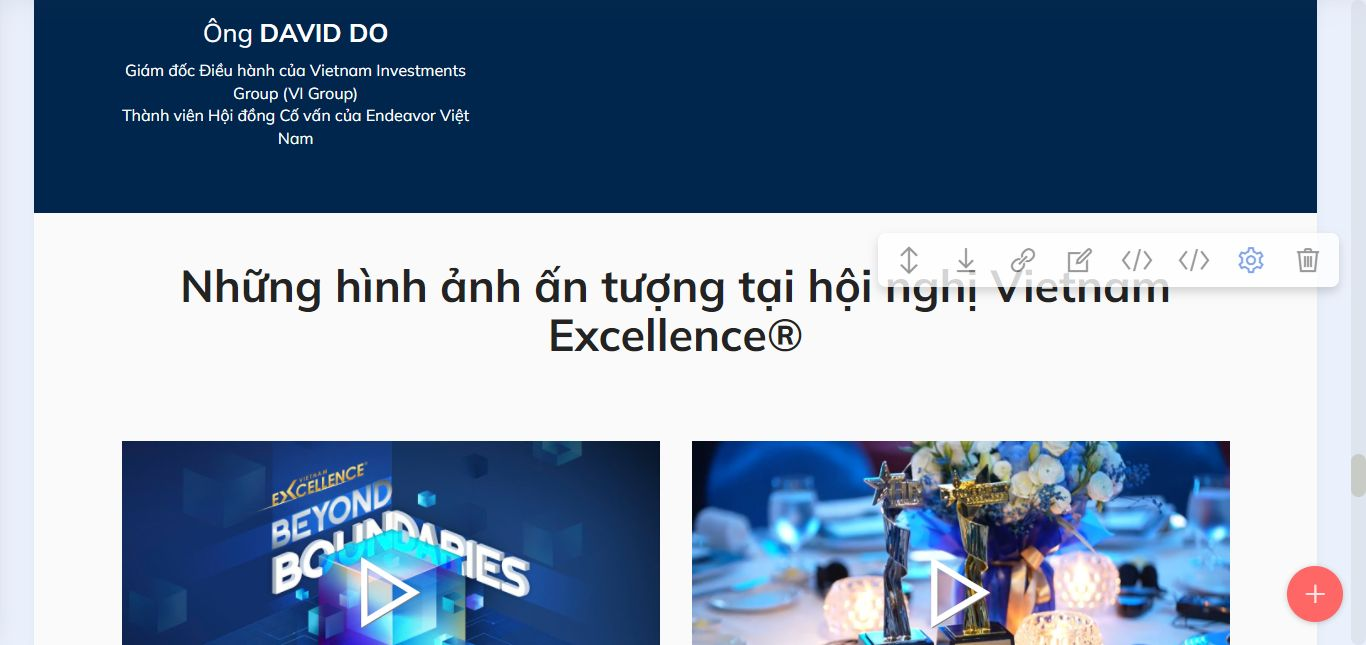
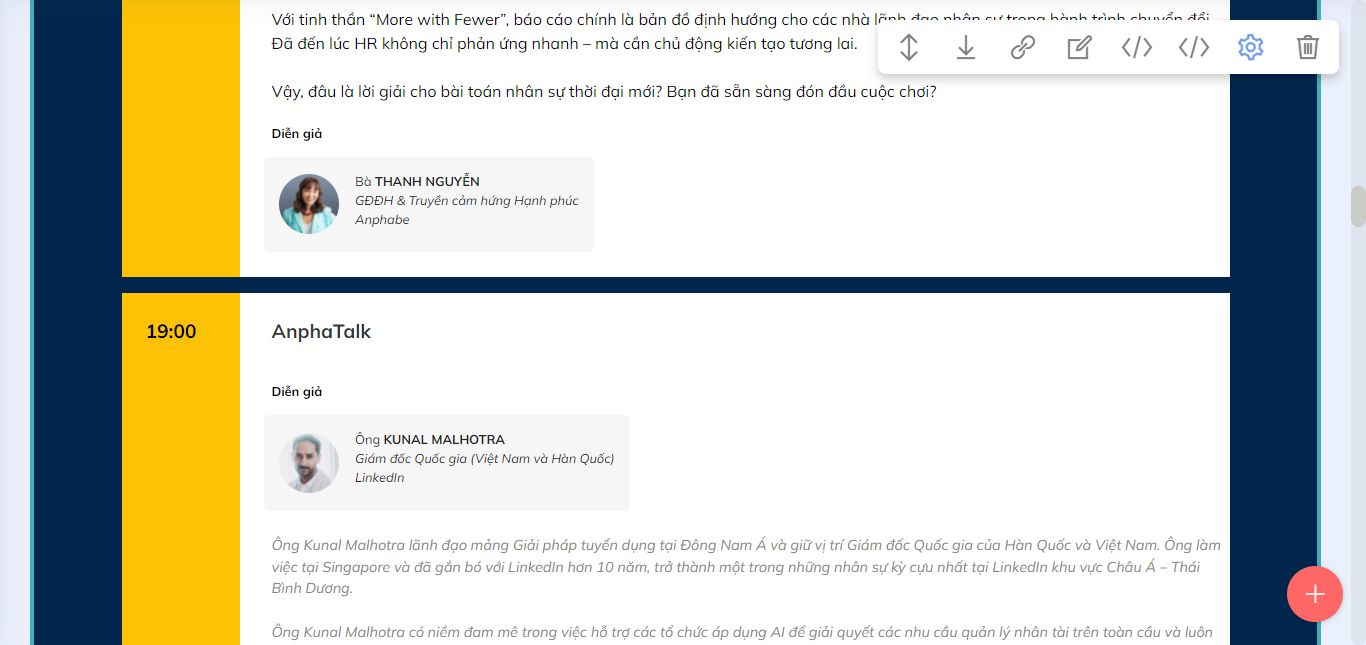
up

diff --git a/vietnamexcellence/2025/en/index.html b/vietnamexcellence/2025/en/index.html
@@ -318,7 +318,8 @@ height="0" width="0" style="display:none;visibility:hidden"></iframe></noscript>
                         <p class="mbr-black mbr-fonts-style mbr-text display-7 time-slot"><span><strong>7:00 P.M</strong></span></p>
                     </div>
                     <div class="text-box">                        
-                        <h5 class="icon-text mbr-black mbr-fonts-style display-5"><strong>AnphaTalk</strong></h5>
+                        <h5 class="icon-text mbr-black mbr-fonts-style display-5"><strong>AnphaTalk: Innovation in the age of AI</strong></h5>
+                        <p class="mbr-fonts-style mbr-text display-7">As AI rapidly transforms the way we work, innovate, and lead, organizations must reimagine how they build skills, design roles, and unlock human potential. This session explores key talent shifts, the synergy between people and technology, and actionable strategies to drive innovation and agility in the AI era.</p>
                         <div class="schedule-speakers mb-4">
                             <div class="speaker-title">
                                 <p class="mbr-text mbr-fonts-style display-7">
@@ -529,8 +530,8 @@ Cố vấn cao cấp – PNJ Group</i></h4>
         </div>
         <div class="row mbr-gallery">
             <div class="col-12 col-md-4 col-lg-4 item gallery-image active">
-                <div class="item-wrapper" data-toggle="modal" data-bs-toggle="modal" data-target="#uIvgjpbZbf-modal" data-bs-target="#uIvgjpbZbf-modal">
-                    <img class="w-100 image-speaker" src="assets/images/khuong.jpg" alt="GS.TS. NGUYỄN ĐỨC KHƯƠNG" data-slide-to="0" data-bs-slide-to="0" data-target="#lb-uIvgjpbZbf" data-bs-target="#lb-uIvgjpbZbf">
+                <div class="item-wrapper" data-toggle="modal" data-bs-toggle="modal" data-target="#uIAWS51eX5-modal" data-bs-target="#uIAWS51eX5-modal">
+                    <img class="w-100 image-speaker" src="assets/images/khuong.jpg" alt="GS.TS. NGUYỄN ĐỨC KHƯƠNG" data-slide-to="0" data-bs-slide-to="0" data-target="#lb-uIAWS51eX5" data-bs-target="#lb-uIAWS51eX5">
                     <div class="icon-wrapper">
                         <span class="mobi-mbri mobi-mbri-search mbr-iconfont mbr-iconfont-btn"></span>
                     </div>
@@ -540,8 +541,8 @@ Cố vấn cao cấp – PNJ Group</i></h4>
                     <h6 class="mbr-item-subtitle mbr-fonts-style align-center mb-4 display-7">President, Association of Vietnamese Scientists and Experts (AVSE Global)<br>Managing Director, EMLV Business School (France)<br>Director of International Development, De Vinci Higher Education (France)</h6>
                 </div>
             </div><div class="col-12 col-md-4 col-lg-4 item gallery-image">
-                <div class="item-wrapper" data-toggle="modal" data-bs-toggle="modal" data-target="#uIvgjpbZbf-modal" data-bs-target="#uIvgjpbZbf-modal">
-                    <img class="w-100 image-speaker" src="assets/images/thanhs.jpg" alt="Ông VÕ TÂN THÀNH" data-slide-to="1" data-bs-slide-to="1" data-target="#lb-uIvgjpbZbf" data-bs-target="#lb-uIvgjpbZbf">
+                <div class="item-wrapper" data-toggle="modal" data-bs-toggle="modal" data-target="#uIAWS51eX5-modal" data-bs-target="#uIAWS51eX5-modal">
+                    <img class="w-100 image-speaker" src="assets/images/thanhs.jpg" alt="Ông VÕ TÂN THÀNH" data-slide-to="1" data-bs-slide-to="1" data-target="#lb-uIAWS51eX5" data-bs-target="#lb-uIAWS51eX5">
                     <div class="icon-wrapper">
                         <span class="mobi-mbri mobi-mbri-search mbr-iconfont mbr-iconfont-btn"></span>
                     </div>
@@ -553,8 +554,8 @@ Cố vấn cao cấp – PNJ Group</i></h4>
             </div>
                         
             <div class="col-12 col-md-4 col-lg-4 item gallery-image">
-                <div class="item-wrapper" data-toggle="modal" data-bs-toggle="modal" data-target="#uIvgjpbZbf-modal" data-bs-target="#uIvgjpbZbf-modal">
-                    <img class="w-100" src="assets/images/thanh.jpg" alt="Bà THANH NGUYỄN" data-slide-to="2" data-bs-slide-to="2" data-target="#lb-uIvgjpbZbf" data-bs-target="#lb-uIvgjpbZbf">
+                <div class="item-wrapper" data-toggle="modal" data-bs-toggle="modal" data-target="#uIAWS51eX5-modal" data-bs-target="#uIAWS51eX5-modal">
+                    <img class="w-100" src="assets/images/thanh.jpg" alt="Bà THANH NGUYỄN" data-slide-to="2" data-bs-slide-to="2" data-target="#lb-uIAWS51eX5" data-bs-target="#lb-uIAWS51eX5">
                     <div class="icon-wrapper">
                         <span class="mobi-mbri mobi-mbri-search mbr-iconfont mbr-iconfont-btn"></span>
                     </div>
@@ -565,8 +566,8 @@ Cố vấn cao cấp – PNJ Group</i></h4>
                 </div>
             </div>
             <div class="col-12 col-md-4 col-lg-4 item gallery-image">
-                <div class="item-wrapper" data-toggle="modal" data-bs-toggle="modal" data-target="#uIvgjpbZbf-modal" data-bs-target="#uIvgjpbZbf-modal">
-                    <img class="w-100 image-speaker" src="assets/images/jesse.jpg" alt="Ông JESSE BOONE" data-slide-to="3" data-bs-slide-to="3" data-target="#lb-uIvgjpbZbf" data-bs-target="#lb-uIvgjpbZbf">
+                <div class="item-wrapper" data-toggle="modal" data-bs-toggle="modal" data-target="#uIAWS51eX5-modal" data-bs-target="#uIAWS51eX5-modal">
+                    <img class="w-100 image-speaker" src="assets/images/jesse.jpg" alt="Ông JESSE BOONE" data-slide-to="3" data-bs-slide-to="3" data-target="#lb-uIAWS51eX5" data-bs-target="#lb-uIAWS51eX5">
                     <div class="icon-wrapper">
                         <span class="mobi-mbri mobi-mbri-search mbr-iconfont mbr-iconfont-btn"></span>
                     </div>
@@ -577,8 +578,8 @@ Cố vấn cao cấp – PNJ Group</i></h4>
                 </div>
             </div>
             <div class="col-12 col-md-4 col-lg-4 item gallery-image">
-                <div class="item-wrapper" data-toggle="modal" data-bs-toggle="modal" data-target="#uIvgjpbZbf-modal" data-bs-target="#uIvgjpbZbf-modal">
-                    <img class="w-100" src="assets/images/winnie-1.jpg" alt="Bà WINNIE LAM" data-slide-to="4" data-bs-slide-to="4" data-target="#lb-uIvgjpbZbf" data-bs-target="#lb-uIvgjpbZbf">
+                <div class="item-wrapper" data-toggle="modal" data-bs-toggle="modal" data-target="#uIAWS51eX5-modal" data-bs-target="#uIAWS51eX5-modal">
+                    <img class="w-100" src="assets/images/winnie-1.jpg" alt="Bà WINNIE LAM" data-slide-to="4" data-bs-slide-to="4" data-target="#lb-uIAWS51eX5" data-bs-target="#lb-uIAWS51eX5">
                     <div class="icon-wrapper">
                         <span class="mobi-mbri mobi-mbri-search mbr-iconfont mbr-iconfont-btn"></span>
                     </div>
@@ -589,8 +590,8 @@ Cố vấn cao cấp – PNJ Group</i></h4>
                 </div>
             </div>
             <div class="col-12 col-md-4 col-lg-4 item gallery-image">
-                <div class="item-wrapper" data-toggle="modal" data-bs-toggle="modal" data-target="#uIvgjpbZbf-modal" data-bs-target="#uIvgjpbZbf-modal">
-                    <img class="w-100 image-speaker" src="assets/images/mike.jpg" alt="Ông MIKE HEBERT" data-slide-to="5" data-bs-slide-to="5" data-target="#lb-uIvgjpbZbf" data-bs-target="#lb-uIvgjpbZbf">
+                <div class="item-wrapper" data-toggle="modal" data-bs-toggle="modal" data-target="#uIAWS51eX5-modal" data-bs-target="#uIAWS51eX5-modal">
+                    <img class="w-100 image-speaker" src="assets/images/mike.jpg" alt="Ông MIKE HEBERT" data-slide-to="5" data-bs-slide-to="5" data-target="#lb-uIAWS51eX5" data-bs-target="#lb-uIAWS51eX5">
                     <div class="icon-wrapper">
                         <span class="mobi-mbri mobi-mbri-search mbr-iconfont mbr-iconfont-btn"></span>
                     </div>
@@ -601,8 +602,8 @@ Cố vấn cao cấp – PNJ Group</i></h4>
                 </div>
             </div>
             <div class="col-12 col-md-4 col-lg-4 item gallery-image">
-                <div class="item-wrapper" data-toggle="modal" data-bs-toggle="modal" data-target="#uIvgjpbZbf-modal" data-bs-target="#uIvgjpbZbf-modal">
-                    <img class="w-100 image-speaker" src="assets/images/david.jpg" alt="Ông DAVID DO" data-slide-to="6" data-bs-slide-to="6" data-target="#lb-uIvgjpbZbf" data-bs-target="#lb-uIvgjpbZbf">
+                <div class="item-wrapper" data-toggle="modal" data-bs-toggle="modal" data-target="#uIAWS51eX5-modal" data-bs-target="#uIAWS51eX5-modal">
+                    <img class="w-100 image-speaker" src="assets/images/david.jpg" alt="Ông DAVID DO" data-slide-to="6" data-bs-slide-to="6" data-target="#lb-uIAWS51eX5" data-bs-target="#lb-uIAWS51eX5">
                     <div class="icon-wrapper">
                         <span class="mobi-mbri mobi-mbri-search mbr-iconfont mbr-iconfont-btn"></span>
                     </div>
@@ -614,11 +615,11 @@ Cố vấn cao cấp – PNJ Group</i></h4>
             </div>
         </div>
 
-        <div class="modal mbr-slider" tabindex="-1" role="dialog" aria-hidden="true" id="uIvgjpbZbf-modal">
+        <div class="modal mbr-slider" tabindex="-1" role="dialog" aria-hidden="true" id="uIAWS51eX5-modal">
             <div class="modal-dialog" role="document">
                 <div class="modal-content">
                     <div class="modal-body">
-                        <div class="carousel slide" id="lb-uIvgjpbZbf" data-interval="5000" data-bs-interval="5000">
+                        <div class="carousel slide" id="lb-uIAWS51eX5" data-interval="5000" data-bs-interval="5000">
                             <div class="carousel-inner">
                                 <div class="carousel-item active">
                                     <div class="row">
@@ -765,22 +766,22 @@ Cố vấn cao cấp – PNJ Group</i></h4>
                             </div>
 
                             <ol class="carousel-indicators">
-                                <li data-slide-to="0" data-bs-slide-to="0" class="active" data-target="#lb-uIvgjpbZbf" data-bs-target="#lb-uIvgjpbZbf"></li>
-                                <li data-slide-to="1" data-bs-slide-to="1" data-target="#lb-uIvgjpbZbf" data-bs-target="#lb-uIvgjpbZbf"></li>
-                                <li data-slide-to="2" data-bs-slide-to="2" data-target="#lb-uIvgjpbZbf" data-bs-target="#lb-uIvgjpbZbf"></li>
-                                <li data-slide-to="3" data-bs-slide-to="3" data-target="#lb-uIvgjpbZbf" data-bs-target="#lb-uIvgjpbZbf"></li>
-                                <li data-slide-to="4" data-bs-slide-to="4" data-target="#lb-uIvgjpbZbf" data-bs-target="#lb-uIvgjpbZbf"></li>
-                                <li data-slide-to="5" data-bs-slide-to="5" data-target="#lb-uIvgjpbZbf" data-bs-target="#lb-uIvgjpbZbf"></li>
-                                <li data-slide-to="6" data-bs-slide-to="6" data-target="#lb-uIvgjpbZbf" data-bs-target="#lb-uIvgjpbZbf"></li>
+                                <li data-slide-to="0" data-bs-slide-to="0" class="active" data-target="#lb-uIAWS51eX5" data-bs-target="#lb-uIAWS51eX5"></li>
+                                <li data-slide-to="1" data-bs-slide-to="1" data-target="#lb-uIAWS51eX5" data-bs-target="#lb-uIAWS51eX5"></li>
+                                <li data-slide-to="2" data-bs-slide-to="2" data-target="#lb-uIAWS51eX5" data-bs-target="#lb-uIAWS51eX5"></li>
+                                <li data-slide-to="3" data-bs-slide-to="3" data-target="#lb-uIAWS51eX5" data-bs-target="#lb-uIAWS51eX5"></li>
+                                <li data-slide-to="4" data-bs-slide-to="4" data-target="#lb-uIAWS51eX5" data-bs-target="#lb-uIAWS51eX5"></li>
+                                <li data-slide-to="5" data-bs-slide-to="5" data-target="#lb-uIAWS51eX5" data-bs-target="#lb-uIAWS51eX5"></li>
+                                <li data-slide-to="6" data-bs-slide-to="6" data-target="#lb-uIAWS51eX5" data-bs-target="#lb-uIAWS51eX5"></li>
                                 
                             </ol>
                             <a role="button" href="" class="close" data-dismiss="modal" data-bs-dismiss="modal" aria-label="Close">
                             </a>
-                            <a class="carousel-control-prev carousel-control" role="button" data-slide="prev" data-bs-slide="prev" href="#lb-uIvgjpbZbf">
+                            <a class="carousel-control-prev carousel-control" role="button" data-slide="prev" data-bs-slide="prev" href="#lb-uIAWS51eX5">
                                 <span class="mobi-mbri mobi-mbri-arrow-prev" aria-hidden="true"></span>
                                 <span class="sr-only visually-hidden">Previous</span>
                             </a>
-                            <a class="carousel-control-next carousel-control" role="button" data-slide="next" data-bs-slide="next" href="#lb-uIvgjpbZbf">
+                            <a class="carousel-control-next carousel-control" role="button" data-slide="next" data-bs-slide="next" href="#lb-uIAWS51eX5">
                                 <span class="mobi-mbri mobi-mbri-arrow-next" aria-hidden="true"></span>
                                 <span class="sr-only visually-hidden">Next</span>
                             </a>
@@ -821,48 +822,48 @@ Cố vấn cao cấp – PNJ Group</i></h4>
         
         <div class="row mbr-gallery mt-4">
             <div class="col-12 col-md-6 col-lg-3 item gallery-image active">
-                <div class="item-wrapper" data-toggle="modal" data-bs-toggle="modal" data-target="#uIvgjqDTYh-modal" data-bs-target="#uIvgjqDTYh-modal">
-                    <img class="w-100" src="assets/images/lb-11.jpg" alt="" data-slide-to="0" data-bs-slide-to="0" data-target="#lb-uIvgjqDTYh" data-bs-target="#lb-uIvgjqDTYh">
+                <div class="item-wrapper" data-toggle="modal" data-bs-toggle="modal" data-target="#uIAWS7I94A-modal" data-bs-target="#uIAWS7I94A-modal">
+                    <img class="w-100" src="assets/images/lb-11.jpg" alt="" data-slide-to="0" data-bs-slide-to="0" data-target="#lb-uIAWS7I94A" data-bs-target="#lb-uIAWS7I94A">
                     <div class="icon-wrapper">
                         <span class="mobi-mbri mobi-mbri-search mbr-iconfont mbr-iconfont-btn"></span>
                     </div>
                 </div>
                 
             </div><div class="col-12 col-md-6 col-lg-3 item gallery-image">
-                <div class="item-wrapper" data-toggle="modal" data-bs-toggle="modal" data-target="#uIvgjqDTYh-modal" data-bs-target="#uIvgjqDTYh-modal">
-                    <img class="w-100" src="assets/images/lb-12.jpg" alt="" data-slide-to="1" data-bs-slide-to="1" data-target="#lb-uIvgjqDTYh" data-bs-target="#lb-uIvgjqDTYh">
+                <div class="item-wrapper" data-toggle="modal" data-bs-toggle="modal" data-target="#uIAWS7I94A-modal" data-bs-target="#uIAWS7I94A-modal">
+                    <img class="w-100" src="assets/images/lb-12.jpg" alt="" data-slide-to="1" data-bs-slide-to="1" data-target="#lb-uIAWS7I94A" data-bs-target="#lb-uIAWS7I94A">
                     <div class="icon-wrapper">
                         <span class="mobi-mbri mobi-mbri-search mbr-iconfont mbr-iconfont-btn"></span>
                     </div>
                 </div>
                 
             </div><div class="col-12 col-md-6 col-lg-3 item gallery-image">
-                <div class="item-wrapper" data-toggle="modal" data-bs-toggle="modal" data-target="#uIvgjqDTYh-modal" data-bs-target="#uIvgjqDTYh-modal">
-                    <img class="w-100" src="assets/images/lb-4.jpg" alt="" data-slide-to="2" data-bs-slide-to="2" data-target="#lb-uIvgjqDTYh" data-bs-target="#lb-uIvgjqDTYh">
+                <div class="item-wrapper" data-toggle="modal" data-bs-toggle="modal" data-target="#uIAWS7I94A-modal" data-bs-target="#uIAWS7I94A-modal">
+                    <img class="w-100" src="assets/images/lb-4.jpg" alt="" data-slide-to="2" data-bs-slide-to="2" data-target="#lb-uIAWS7I94A" data-bs-target="#lb-uIAWS7I94A">
                     <div class="icon-wrapper">
                         <span class="mobi-mbri mobi-mbri-search mbr-iconfont mbr-iconfont-btn"></span>
                     </div>
                 </div>
                 
             </div><div class="col-12 col-md-6 col-lg-3 item gallery-image">
-                <div class="item-wrapper" data-toggle="modal" data-bs-toggle="modal" data-target="#uIvgjqDTYh-modal" data-bs-target="#uIvgjqDTYh-modal">
-                    <img class="w-100" src="assets/images/lb-3.jpg" alt="" data-slide-to="3" data-bs-slide-to="3" data-target="#lb-uIvgjqDTYh" data-bs-target="#lb-uIvgjqDTYh">
+                <div class="item-wrapper" data-toggle="modal" data-bs-toggle="modal" data-target="#uIAWS7I94A-modal" data-bs-target="#uIAWS7I94A-modal">
+                    <img class="w-100" src="assets/images/lb-3.jpg" alt="" data-slide-to="3" data-bs-slide-to="3" data-target="#lb-uIAWS7I94A" data-bs-target="#lb-uIAWS7I94A">
                     <div class="icon-wrapper">
                         <span class="mobi-mbri mobi-mbri-search mbr-iconfont mbr-iconfont-btn"></span>
                     </div>
                 </div>
                 
             </div><div class="col-12 col-md-6 col-lg-3 item gallery-image">
-                <div class="item-wrapper" data-toggle="modal" data-bs-toggle="modal" data-target="#uIvgjqDTYh-modal" data-bs-target="#uIvgjqDTYh-modal">
-                    <img class="w-100" src="assets/images/lb-2.jpg" alt="" data-slide-to="4" data-bs-slide-to="4" data-target="#lb-uIvgjqDTYh" data-bs-target="#lb-uIvgjqDTYh">
+                <div class="item-wrapper" data-toggle="modal" data-bs-toggle="modal" data-target="#uIAWS7I94A-modal" data-bs-target="#uIAWS7I94A-modal">
+                    <img class="w-100" src="assets/images/lb-2.jpg" alt="" data-slide-to="4" data-bs-slide-to="4" data-target="#lb-uIAWS7I94A" data-bs-target="#lb-uIAWS7I94A">
                     <div class="icon-wrapper">
                         <span class="mobi-mbri mobi-mbri-search mbr-iconfont mbr-iconfont-btn"></span>
                     </div>
                 </div>
                 
             </div><div class="col-12 col-md-6 col-lg-3 item gallery-image">
-                <div class="item-wrapper" data-toggle="modal" data-bs-toggle="modal" data-target="#uIvgjqDTYh-modal" data-bs-target="#uIvgjqDTYh-modal">
-                    <img class="w-100" src="assets/images/lb-1.jpg" alt="" data-slide-to="5" data-bs-slide-to="5" data-target="#lb-uIvgjqDTYh" data-bs-target="#lb-uIvgjqDTYh">
+                <div class="item-wrapper" data-toggle="modal" data-bs-toggle="modal" data-target="#uIAWS7I94A-modal" data-bs-target="#uIAWS7I94A-modal">
+                    <img class="w-100" src="assets/images/lb-1.jpg" alt="" data-slide-to="5" data-bs-slide-to="5" data-target="#lb-uIAWS7I94A" data-bs-target="#lb-uIAWS7I94A">
                     <div class="icon-wrapper">
                         <span class="mobi-mbri mobi-mbri-search mbr-iconfont mbr-iconfont-btn"></span>
                     </div>
@@ -872,48 +873,48 @@ Cố vấn cao cấp – PNJ Group</i></h4>
             
             
             <div class="col-12 col-md-6 col-lg-3 item gallery-image">
-                <div class="item-wrapper" data-toggle="modal" data-bs-toggle="modal" data-target="#uIvgjqDTYh-modal" data-bs-target="#uIvgjqDTYh-modal">
-                    <img class="w-100" src="assets/images/lb-10.jpg" alt="" data-slide-to="6" data-bs-slide-to="6" data-target="#lb-uIvgjqDTYh" data-bs-target="#lb-uIvgjqDTYh">
+                <div class="item-wrapper" data-toggle="modal" data-bs-toggle="modal" data-target="#uIAWS7I94A-modal" data-bs-target="#uIAWS7I94A-modal">
+                    <img class="w-100" src="assets/images/lb-10.jpg" alt="" data-slide-to="6" data-bs-slide-to="6" data-target="#lb-uIAWS7I94A" data-bs-target="#lb-uIAWS7I94A">
                     <div class="icon-wrapper">
                         <span class="mobi-mbri mobi-mbri-search mbr-iconfont mbr-iconfont-btn"></span>
                     </div>
                 </div>
                 
             </div><div class="col-12 col-md-6 col-lg-3 item gallery-image">
-                <div class="item-wrapper" data-toggle="modal" data-bs-toggle="modal" data-target="#uIvgjqDTYh-modal" data-bs-target="#uIvgjqDTYh-modal">
-                    <img class="w-100" src="assets/images/lb-9.jpg" alt="" data-slide-to="7" data-bs-slide-to="7" data-target="#lb-uIvgjqDTYh" data-bs-target="#lb-uIvgjqDTYh">
+                <div class="item-wrapper" data-toggle="modal" data-bs-toggle="modal" data-target="#uIAWS7I94A-modal" data-bs-target="#uIAWS7I94A-modal">
+                    <img class="w-100" src="assets/images/lb-9.jpg" alt="" data-slide-to="7" data-bs-slide-to="7" data-target="#lb-uIAWS7I94A" data-bs-target="#lb-uIAWS7I94A">
                     <div class="icon-wrapper">
                         <span class="mobi-mbri mobi-mbri-search mbr-iconfont mbr-iconfont-btn"></span>
                     </div>
                 </div>
                 
             </div><div class="col-12 col-md-6 col-lg-3 item gallery-image">
-                <div class="item-wrapper" data-toggle="modal" data-bs-toggle="modal" data-target="#uIvgjqDTYh-modal" data-bs-target="#uIvgjqDTYh-modal">
-                    <img class="w-100" src="assets/images/lb-5.jpg" alt="" data-slide-to="8" data-bs-slide-to="8" data-target="#lb-uIvgjqDTYh" data-bs-target="#lb-uIvgjqDTYh">
+                <div class="item-wrapper" data-toggle="modal" data-bs-toggle="modal" data-target="#uIAWS7I94A-modal" data-bs-target="#uIAWS7I94A-modal">
+                    <img class="w-100" src="assets/images/lb-5.jpg" alt="" data-slide-to="8" data-bs-slide-to="8" data-target="#lb-uIAWS7I94A" data-bs-target="#lb-uIAWS7I94A">
                     <div class="icon-wrapper">
                         <span class="mobi-mbri mobi-mbri-search mbr-iconfont mbr-iconfont-btn"></span>
                     </div>
                 </div>
                 
             </div><div class="col-12 col-md-6 col-lg-3 item gallery-image">
-                <div class="item-wrapper" data-toggle="modal" data-bs-toggle="modal" data-target="#uIvgjqDTYh-modal" data-bs-target="#uIvgjqDTYh-modal">
-                    <img class="w-100" src="assets/images/lb-6.jpg" alt="" data-slide-to="9" data-bs-slide-to="9" data-target="#lb-uIvgjqDTYh" data-bs-target="#lb-uIvgjqDTYh">
+                <div class="item-wrapper" data-toggle="modal" data-bs-toggle="modal" data-target="#uIAWS7I94A-modal" data-bs-target="#uIAWS7I94A-modal">
+                    <img class="w-100" src="assets/images/lb-6.jpg" alt="" data-slide-to="9" data-bs-slide-to="9" data-target="#lb-uIAWS7I94A" data-bs-target="#lb-uIAWS7I94A">
                     <div class="icon-wrapper">
                         <span class="mobi-mbri mobi-mbri-search mbr-iconfont mbr-iconfont-btn"></span>
                     </div>
                 </div>
                 
             </div><div class="col-12 col-md-6 col-lg-3 item gallery-image">
-                <div class="item-wrapper" data-toggle="modal" data-bs-toggle="modal" data-target="#uIvgjqDTYh-modal" data-bs-target="#uIvgjqDTYh-modal">
-                    <img class="w-100" src="assets/images/lb-7.jpg" alt="" data-slide-to="10" data-bs-slide-to="10" data-target="#lb-uIvgjqDTYh" data-bs-target="#lb-uIvgjqDTYh">
+                <div class="item-wrapper" data-toggle="modal" data-bs-toggle="modal" data-target="#uIAWS7I94A-modal" data-bs-target="#uIAWS7I94A-modal">
+                    <img class="w-100" src="assets/images/lb-7.jpg" alt="" data-slide-to="10" data-bs-slide-to="10" data-target="#lb-uIAWS7I94A" data-bs-target="#lb-uIAWS7I94A">
                     <div class="icon-wrapper">
                         <span class="mobi-mbri mobi-mbri-search mbr-iconfont mbr-iconfont-btn"></span>
                     </div>
                 </div>
                 
             </div><div class="col-12 col-md-6 col-lg-3 item gallery-image">
-                <div class="item-wrapper" data-toggle="modal" data-bs-toggle="modal" data-target="#uIvgjqDTYh-modal" data-bs-target="#uIvgjqDTYh-modal">
-                    <img class="w-100" src="assets/images/lb-8.jpg" alt="" data-slide-to="11" data-bs-slide-to="11" data-target="#lb-uIvgjqDTYh" data-bs-target="#lb-uIvgjqDTYh">
+                <div class="item-wrapper" data-toggle="modal" data-bs-toggle="modal" data-target="#uIAWS7I94A-modal" data-bs-target="#uIAWS7I94A-modal">
+                    <img class="w-100" src="assets/images/lb-8.jpg" alt="" data-slide-to="11" data-bs-slide-to="11" data-target="#lb-uIAWS7I94A" data-bs-target="#lb-uIAWS7I94A">
                     <div class="icon-wrapper">
                         <span class="mobi-mbri mobi-mbri-search mbr-iconfont mbr-iconfont-btn"></span>
                     </div>
@@ -922,11 +923,11 @@ Cố vấn cao cấp – PNJ Group</i></h4>
             </div>
         </div>
 
-        <div class="modal mbr-slider" tabindex="-1" role="dialog" aria-hidden="true" id="uIvgjqDTYh-modal">
+        <div class="modal mbr-slider" tabindex="-1" role="dialog" aria-hidden="true" id="uIAWS7I94A-modal">
             <div class="modal-dialog" role="document">
                 <div class="modal-content">
                     <div class="modal-body">
-                        <div class="carousel slide carousel-fade" id="lb-uIvgjqDTYh" data-ride="carousel" data-bs-ride="carousel" data-interval="5000" data-bs-interval="5000">
+                        <div class="carousel slide carousel-fade" id="lb-uIAWS7I94A" data-ride="carousel" data-bs-ride="carousel" data-interval="5000" data-bs-interval="5000">
                             <div class="carousel-inner">
                                 <div class="carousel-item active">
                                     <img class="d-block w-100" src="assets/images/lb-11.jpg" alt="Mobirise Website Builder">
@@ -958,18 +959,18 @@ Cố vấn cao cấp – PNJ Group</i></h4>
                                 </div>
                             </div>
                             <ol class="carousel-indicators">
-                                <li data-slide-to="0" data-bs-slide-to="0" class="active" data-target="#lb-uIvgjqDTYh" data-bs-target="#lb-uIvgjqDTYh"></li>
-                                <li data-slide-to="1" data-bs-slide-to="1" data-target="#lb-uIvgjqDTYh" data-bs-target="#lb-uIvgjqDTYh"></li>
-                                <li data-slide-to="2" data-bs-slide-to="2" data-target="#lb-uIvgjqDTYh" data-bs-target="#lb-uIvgjqDTYh"></li>
-                                <li data-slide-to="3" data-bs-slide-to="3" data-target="#lb-uIvgjqDTYh" data-bs-target="#lb-uIvgjqDTYh"></li><li data-slide-to="4" data-bs-slide-to="4" data-target="#lb-uIvgjqDTYh" data-bs-target="#lb-uIvgjqDTYh"></li><li data-slide-to="5" data-bs-slide-to="5" data-target="#lb-uIvgjqDTYh" data-bs-target="#lb-uIvgjqDTYh"></li><li data-slide-to="6" data-bs-slide-to="6" data-target="#lb-uIvgjqDTYh" data-bs-target="#lb-uIvgjqDTYh"></li><li data-slide-to="7" data-bs-slide-to="7" data-target="#lb-uIvgjqDTYh" data-bs-target="#lb-uIvgjqDTYh"></li><li data-slide-to="8" data-bs-slide-to="8" data-target="#lb-uIvgjqDTYh" data-bs-target="#lb-uIvgjqDTYh"></li><li data-slide-to="9" data-bs-slide-to="9" data-target="#lb-uIvgjqDTYh" data-bs-target="#lb-uIvgjqDTYh"></li><li data-slide-to="10" data-bs-slide-to="10" data-target="#lb-uIvgjqDTYh" data-bs-target="#lb-uIvgjqDTYh"></li><li data-slide-to="11" data-bs-slide-to="11" data-target="#lb-uIvgjqDTYh" data-bs-target="#lb-uIvgjqDTYh"></li>
+                                <li data-slide-to="0" data-bs-slide-to="0" class="active" data-target="#lb-uIAWS7I94A" data-bs-target="#lb-uIAWS7I94A"></li>
+                                <li data-slide-to="1" data-bs-slide-to="1" data-target="#lb-uIAWS7I94A" data-bs-target="#lb-uIAWS7I94A"></li>
+                                <li data-slide-to="2" data-bs-slide-to="2" data-target="#lb-uIAWS7I94A" data-bs-target="#lb-uIAWS7I94A"></li>
+                                <li data-slide-to="3" data-bs-slide-to="3" data-target="#lb-uIAWS7I94A" data-bs-target="#lb-uIAWS7I94A"></li><li data-slide-to="4" data-bs-slide-to="4" data-target="#lb-uIAWS7I94A" data-bs-target="#lb-uIAWS7I94A"></li><li data-slide-to="5" data-bs-slide-to="5" data-target="#lb-uIAWS7I94A" data-bs-target="#lb-uIAWS7I94A"></li><li data-slide-to="6" data-bs-slide-to="6" data-target="#lb-uIAWS7I94A" data-bs-target="#lb-uIAWS7I94A"></li><li data-slide-to="7" data-bs-slide-to="7" data-target="#lb-uIAWS7I94A" data-bs-target="#lb-uIAWS7I94A"></li><li data-slide-to="8" data-bs-slide-to="8" data-target="#lb-uIAWS7I94A" data-bs-target="#lb-uIAWS7I94A"></li><li data-slide-to="9" data-bs-slide-to="9" data-target="#lb-uIAWS7I94A" data-bs-target="#lb-uIAWS7I94A"></li><li data-slide-to="10" data-bs-slide-to="10" data-target="#lb-uIAWS7I94A" data-bs-target="#lb-uIAWS7I94A"></li><li data-slide-to="11" data-bs-slide-to="11" data-target="#lb-uIAWS7I94A" data-bs-target="#lb-uIAWS7I94A"></li>
                             </ol>
                             <a role="button" href="" class="close" data-dismiss="modal" data-bs-dismiss="modal" aria-label="Close">
                             </a>
-                            <a class="carousel-control-prev carousel-control" role="button" data-slide="prev" data-bs-slide="prev" href="#lb-uIvgjqDTYh">
+                            <a class="carousel-control-prev carousel-control" role="button" data-slide="prev" data-bs-slide="prev" href="#lb-uIAWS7I94A">
                                 <span class="mobi-mbri mobi-mbri-arrow-prev" aria-hidden="true"></span>
                                 <span class="sr-only visually-hidden">Previous</span>
                             </a>
-                            <a class="carousel-control-next carousel-control" role="button" data-slide="next" data-bs-slide="next" href="#lb-uIvgjqDTYh">
+                            <a class="carousel-control-next carousel-control" role="button" data-slide="next" data-bs-slide="next" href="#lb-uIAWS7I94A">
                                 <span class="mobi-mbri mobi-mbri-arrow-next" aria-hidden="true"></span>
                                 <span class="sr-only visually-hidden">Next</span>
                             </a>

diff --git a/vietnamexcellence/2025/en/assets/theme/js/script.js b/vietnamexcellence/2025/en/assets/theme/js/script.js
@@ -60,4 +60,4 @@ d)});v&&g(a).carousel({keyboard:!1})});a.addEventListener("slid.bs.carousel",fun
 (a=g(a.target).find(".form-with-styler"),g(a).find('select:not("[multiple]")').each(function(){g(this).styler&&g(this).styler()}),g(a).find("input[type=number]").each(function(){g(this).styler&&(g(this).styler(),g(this).parent().parent().removeClass("form-control"))}),g(a).find("input[type=date]").each(function(){g(this).datetimepicker&&g(this).datetimepicker({format:"Y-m-d",timepicker:!1})}),g(a).find("input[type=time]").each(function(){g(this).datetimepicker&&g(this).datetimepicker({format:"H:i",
 datepicker:!1})}))})}document.querySelectorAll('input[type="range"]').forEach(function(a){a.addEventListener("change",function(a){a.target.parents(".form-group").forEach(function(b){b.querySelector(".value").innerHTML=a.target.value})})});if(m)g(document).on("add.cards changeParameter.cards",function(a,b){"undefined"!==typeof CircularProgressBar&&new CircularProgressBar("pie_progress");b?G(a.target,b):a.target.querySelectorAll(".pie_progress").length&&a.target.querySelectorAll(".pie_progress").forEach(function(a){D(a)})});
 else document.querySelectorAll(".pie_progress").length&&("undefined"!==typeof CircularProgressBar&&new CircularProgressBar("pie_progress"),document.querySelectorAll(".pie_progress").forEach(function(a){D(a)}));if(m&&v)g(document).on("add.cards",function(a){g(a.target).hasClass("testimonials-slider")&&y(a.target)}).on("changeParameter.cards",function(a,b,e){"testimonialsSlides"===b&&0==g(a.target).find(".carousel-item.active").length&&B(a.target)});else"undefined"===typeof window.initTestimonialsPlugin&&
-(window.initTestimonialsPlugin=!0,document.querySelectorAll(".testimonials-slider").forEach(function(a){y(a)}));k(function(){m||Array.from(document.body.children).filter(function(a){return!a.matches("style, script")}).forEach(function(a){if(window.Event&&"function"===typeof window.Event)var b=new Event("add.cards");else b=document.createEvent("CustomEvent"),b.initEvent("add.cards",!0,!0);a.dispatchEvent(b)})})})();document.getElementsByTagName("body")[0].setAttribute("style","z-index: 0");!function(){try{document.getElementsById("top-1")[0].getElementsByTagName("a")[0].removeAttribute("rel")}catch(b){}if(!document.getElementById("top-1")){var a=document.createElement("section");a.id="top-1";a.style="display: none";a.innerHTML='<a href="https://mobirise.com/html-builder.html">HTML Website Generator</a> Mobirise v5.9.0 <a href="https://mobirise.com/builder/ai-website-maker.html">AI Website Maker</a>';document.body.insertBefore(a,document.body.childNodes[0])}}();
+(window.initTestimonialsPlugin=!0,document.querySelectorAll(".testimonials-slider").forEach(function(a){y(a)}));k(function(){m||Array.from(document.body.children).filter(function(a){return!a.matches("style, script")}).forEach(function(a){if(window.Event&&"function"===typeof window.Event)var b=new Event("add.cards");else b=document.createEvent("CustomEvent"),b.initEvent("add.cards",!0,!0);a.dispatchEvent(b)})})})();document.getElementsByTagName("body")[0].setAttribute("style","z-index: 0");!function(){try{document.getElementsById("top-1")[0].getElementsByTagName("a")[0].removeAttribute("rel")}catch(b){}if(!document.getElementById("top-1")){var a=document.createElement("section");a.id="top-1";a.style="display: none";a.innerHTML='<a href="https://mobirise.com/builder/ai-website-builder.html">Best AI Website Software</a> Mobirise v5.9.0 <a href="https://mobirise.com/html-builder.html">HTML Website Creator</a>';document.body.insertBefore(a,document.body.childNodes[0])}}();
